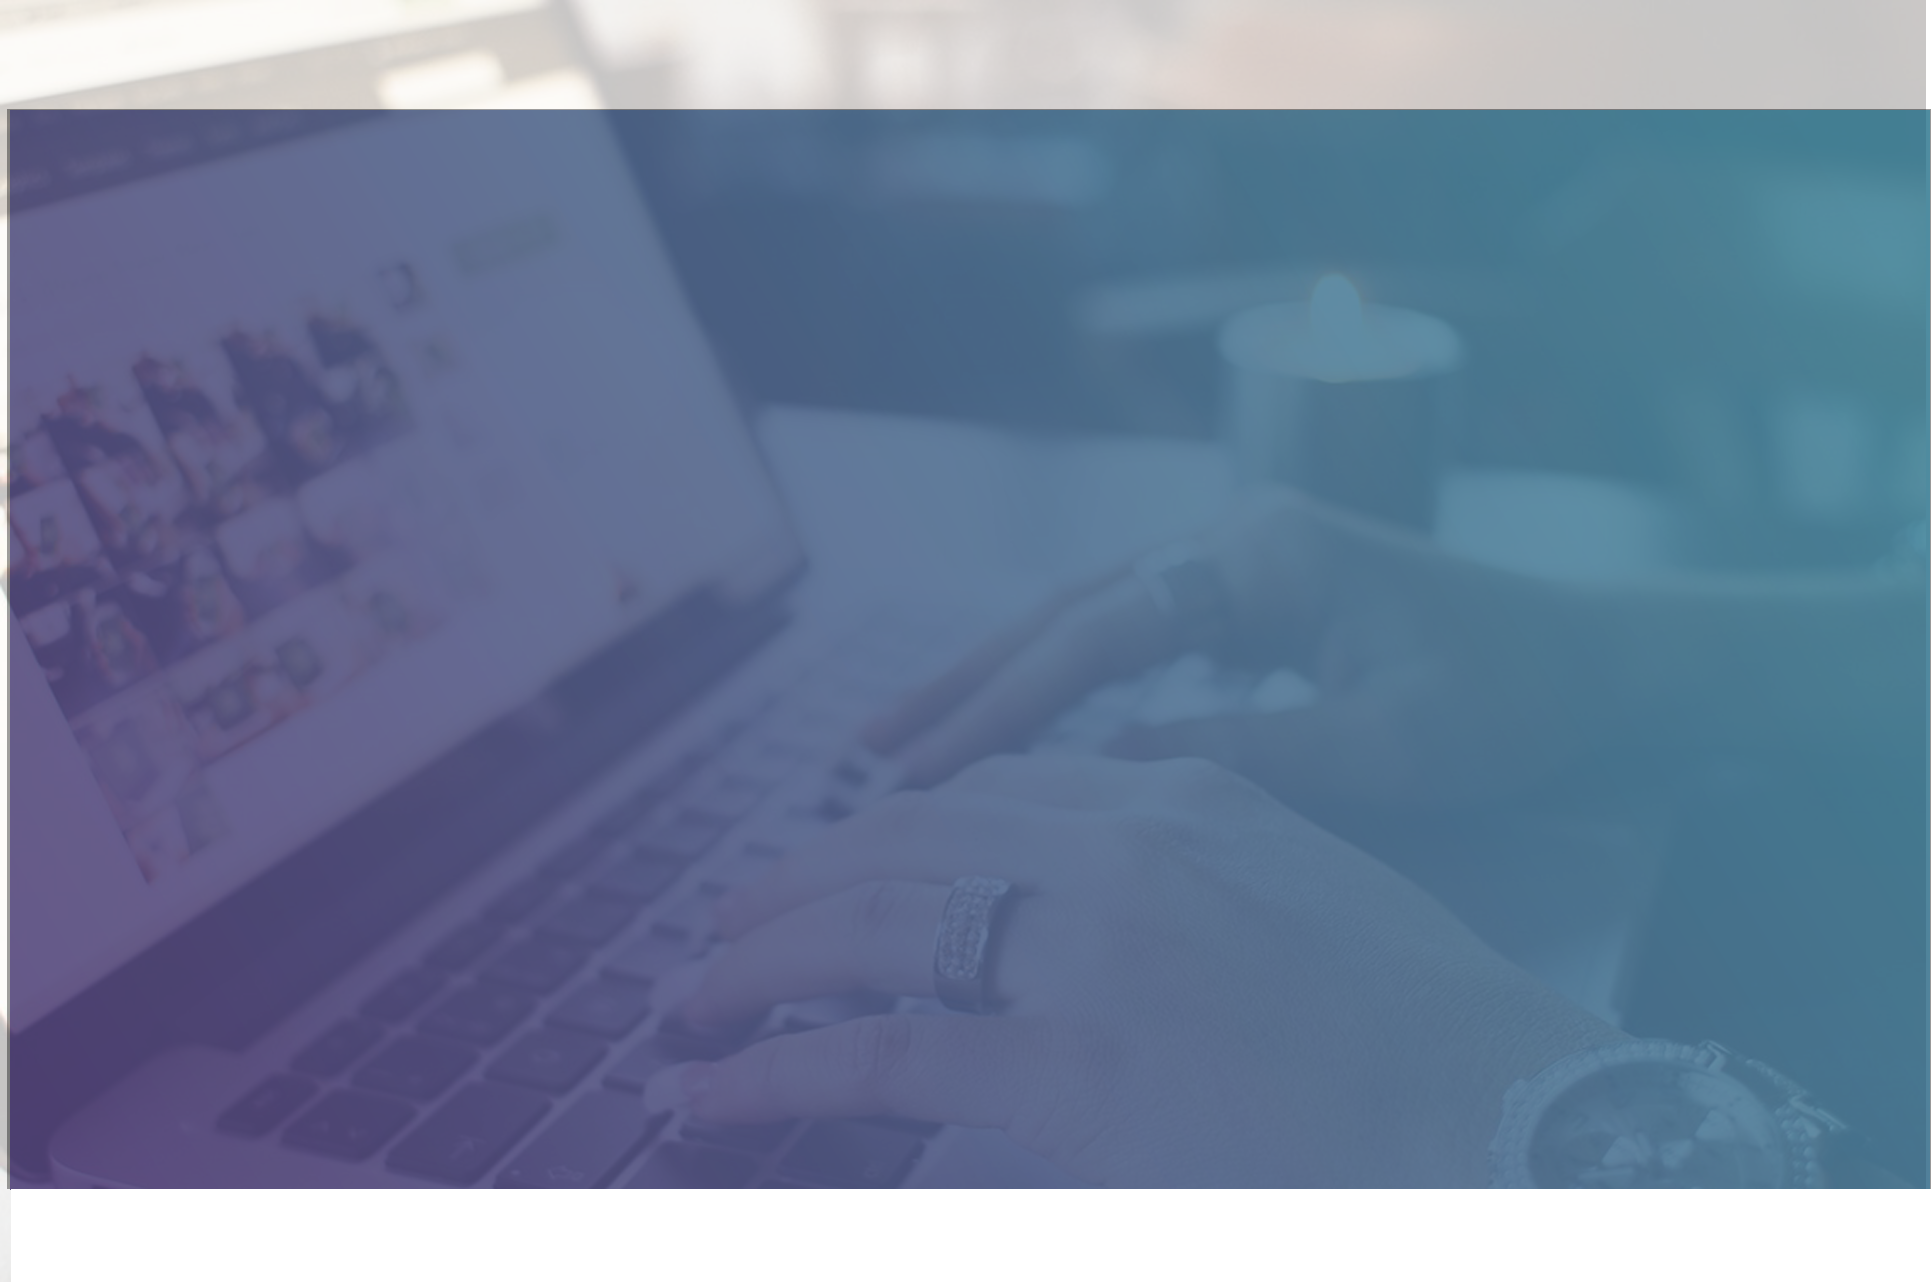
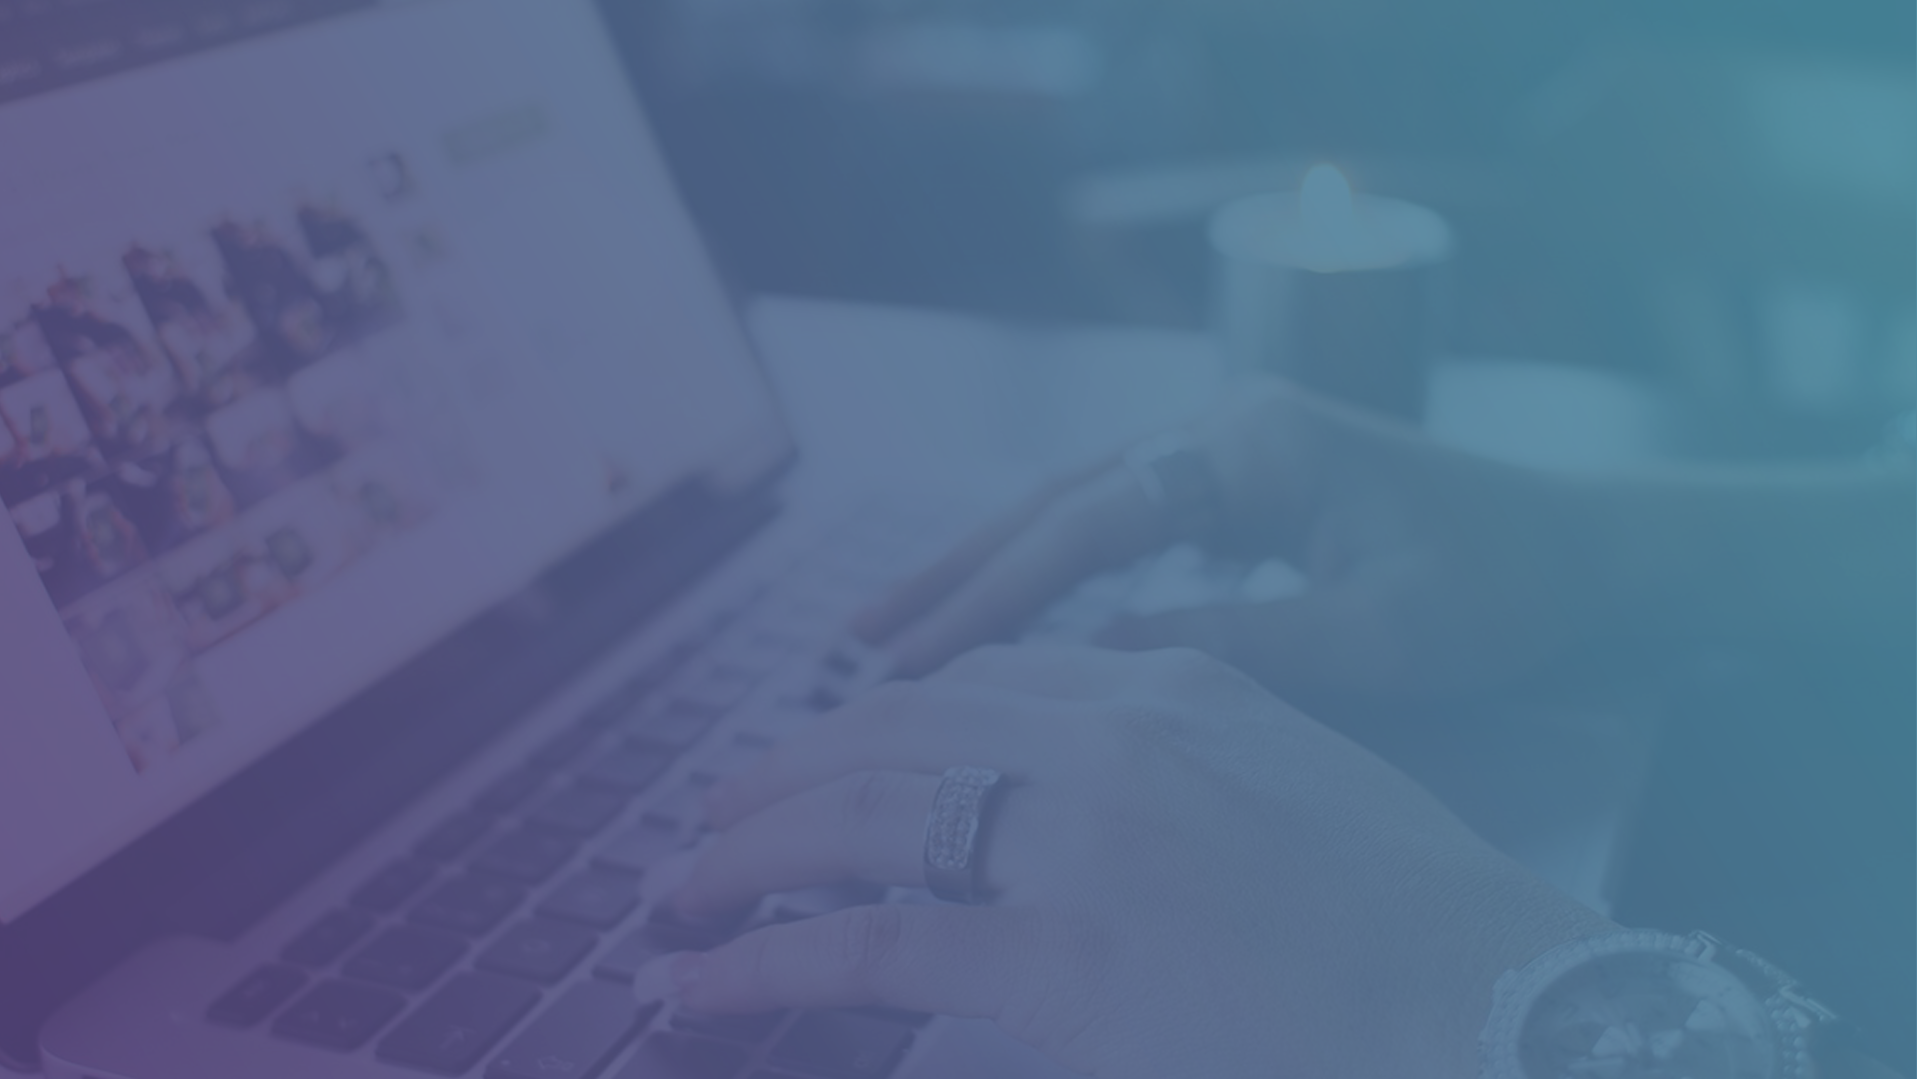
Add files via upload

diff --git a/#source/scss/style.scss b/#source/scss/style.scss
@@ -18,6 +18,7 @@ body {
 	background-repeat: no-repeat;
 	background-position: center;
 	background-size: cover;
+	background-attachment: fixed;
 	margin: 0 auto;
 	text-align: center;
 }
@@ -280,7 +281,9 @@ body {
 	background-repeat: no-repeat;
 	background-position: center;
 	background-size: cover;
+	background-attachment: fixed;
 	padding: 90px 0px 100px 0px;
+	height: 390px;
 }
 .partner__content {
 	height: 390px;
@@ -300,12 +303,11 @@ body {
 	justify-content: space-between;
 	align-items: center;
 	max-width: 600px;
-	padding: 0px 0px 200px 0px;
 }
 //===================================================
 
 .contacts {
-	margin: 0px 0px 100px 0px;
+	margin: 185px 0px 100px 0px;
 }
 .contacts__body {
 	max-width: 910px;

diff --git a/css/style.css b/css/style.css
@@ -363,6 +363,7 @@ body {
   background-repeat: no-repeat;
   background-position: center;
   background-size: cover;
+  background-attachment: fixed;
   margin: 0 auto;
   text-align: center;
 }
@@ -693,7 +694,9 @@ body {
   background-repeat: no-repeat;
   background-position: center;
   background-size: cover;
+  background-attachment: fixed;
   padding: 90px 0px 100px 0px;
+  height: 390px;
 }
 
 .partner__content {
@@ -722,11 +725,10 @@ body {
       -ms-flex-align: center;
           align-items: center;
   max-width: 600px;
-  padding: 0px 0px 200px 0px;
 }
 
 .contacts {
-  margin: 0px 0px 100px 0px;
+  margin: 185px 0px 100px 0px;
 }
 
 .contacts__body {

diff --git a/project.html b/project.html
@@ -16,7 +16,7 @@
 		<nav class="header__nav wrapper">
 			<ul class='header__list'>
 				<li>
-					<a href="#" class="header__link active">home</a>
+					<a href="./index.html" class="header__link active">home</a>
 				</li>
 				<li>
 					<a href="#" class="header__link">about us</a>
@@ -59,7 +59,7 @@
 							sed diam eget risus varius blandit sit amet non magna
 						</p>
 					</div>
-					<div class="project__button button button--b"><a href="/index.html">VISIT SITE</a>
+					<div class="project__button button button--b"><a href="./index.html">VISIT SITE</a>
 					</div>
 				</div>
 			</div>

diff --git a/index.html b/index.html
@@ -24,7 +24,7 @@
 				</div>
 				<div class="header__row">
 					<div class="header__button button button--w">
-						<a href="/project.html"><span>READ MORE</span></a>
+						<a href="./project.html"><span>READ MORE</span></a>
 					</div>
 				</div>
 			</div>
